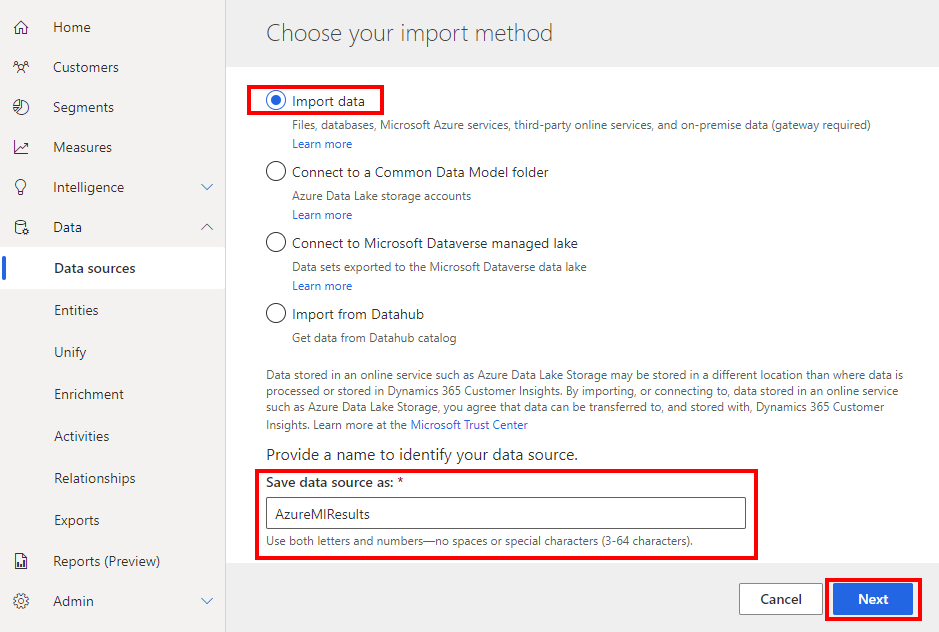
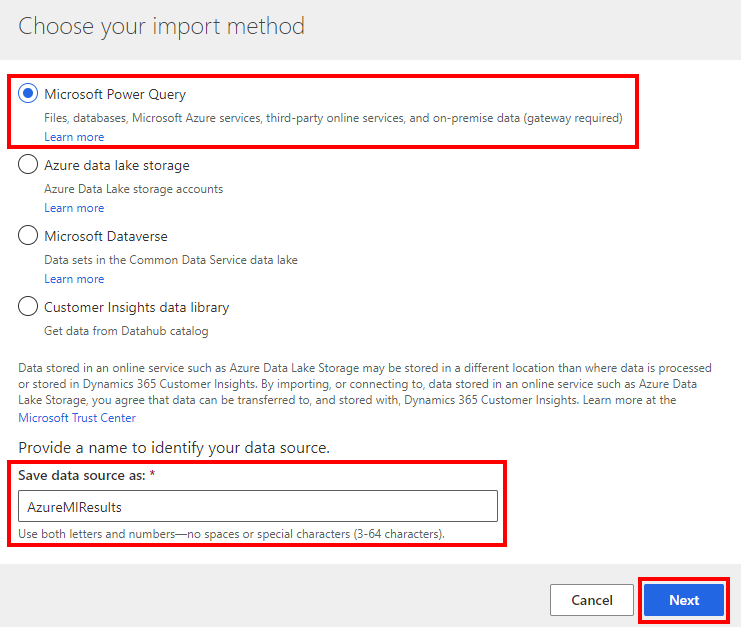
screenshot updates

Changed region(s): [[0.0, 0.0303, 0.9933, 1.0], [0.0621, 0.9394, 0.0931, 0.9697], [0.0, 0.9394, 0.031, 0.9697]]

diff --git a/lab01.md b/lab01.md
@@ -102,9 +102,9 @@ and wish take advantage of a trial environment, visit
 
     <img src="images/lab01/media/image3.png" style="width:7.5in;height:4.46597in" alt="Graphical user interface, application, Teams Description automatically generated" />
 
-1.  Choose “Import data” (_Note: the UI has been renamed to "Microsoft Power Query" in the latest release_) and enter a dataset name “CustomerDemographics” and click Next.
+1.  Choose “Microsoft Power Query” and enter a dataset name “CustomerDemographics” and click Next.
 
-    <img src="images/lab01/media/image4.png" style="width:7.5in;height:4.73333in" alt="Graphical user interface, text, application, email Description automatically generated" />
+    <img src="images/lab01/media/image4.png"/>
 
 1.  Search for “Web” and choose “Web API” which is a quick way to import a
     dataset from a public website. (Your actual business data could come
@@ -149,10 +149,10 @@ and wish take advantage of a trial environment, visit
 
 ## Step 3: Load CustomerServiceAttributes sample dataset to Customer Insights
 
-1.  Click “Add data source”, Import data (_Note: the UI has been renamed to "Microsoft Power Query" in the latest release_), and name it
+1.  Click “Add data source”, "Microsoft Power Query", and name it
     CustomerServiceAttributes and click Next:
 
-    <img src="images/lab01/media/image13.png" style="width:7.5in;height:4.67986in" alt="Graphical user interface, text, application, email Description automatically generated" />
+    <img src="images/lab01/media/image13.png"  />
 
 1.  Choose Web API like on the previous data source and then paste in the
     following URL:

diff --git a/lab05.md b/lab05.md
@@ -80,9 +80,9 @@ learning models into Customer Insights.
 
     <img src="images/lab05/media/image6.png" style="width:7.5in;height:3.025in" alt="Graphical user interface, text, application, email Description automatically generated" />
 
-1.  Choose Import data (_Note: the UI has been renamed to "Microsoft Power Query" in the latest release_) and give it the name “AzureMlResults” and click Next.
+1.  Choose Microsoft Power Query and give it the name “AzureMlResults” and click Next.
 
-    <img src="images/lab05/media/image7.png" style="width:7.5in;height:5.04792in" alt="Graphical user interface, text, application, email Description automatically generated" />
+    <img src="images/lab05/media/image7.png" />
 
 1.  Click the Azure tab in the Power Query Online window and click the Azure
     Blobs option:
